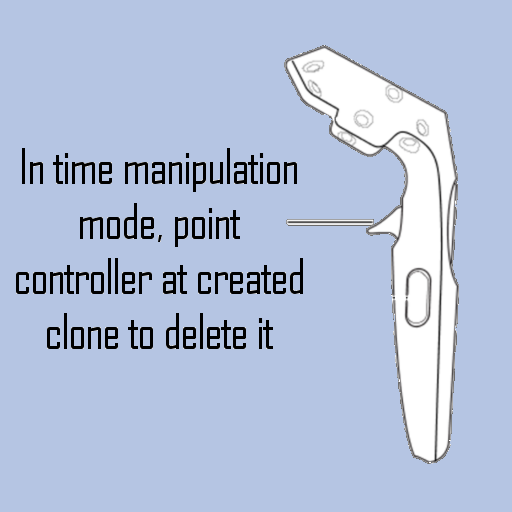
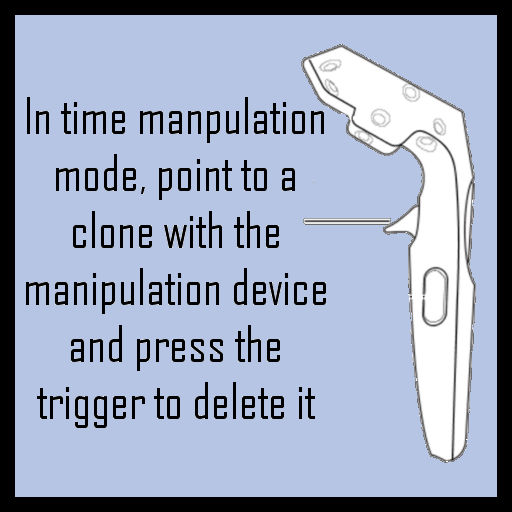
Edited tutorial boards to be more specific

Changed region(s): [[0.0, 0.0, 1.0, 1.0], [0.0625, 0.75, 0.625, 0.8438]]

diff --git a/ChronoLoop/ChronoLoop/Actions/CCTutorial.h b/ChronoLoop/ChronoLoop/Actions/CCTutorial.h
@@ -223,6 +223,9 @@ namespace Epoch
 
 		virtual void Update()
 		{
+			if (GetAsyncKeyState(VK_SHIFT) & 1)
+				Settings::GetInstance().SetInt("tutStep", Settings::GetInstance().GetInt("tutStep") + 1);
+
 			bool thing = ((MeshComponent*)boards[7]->GetComponentIndexed(eCOMPONENT_MESH, 0))->IsVisible();
 			int t = Settings::GetInstance().GetInt("tutStep");
 			switch (Settings::GetInstance().GetInt("tutStep"))
